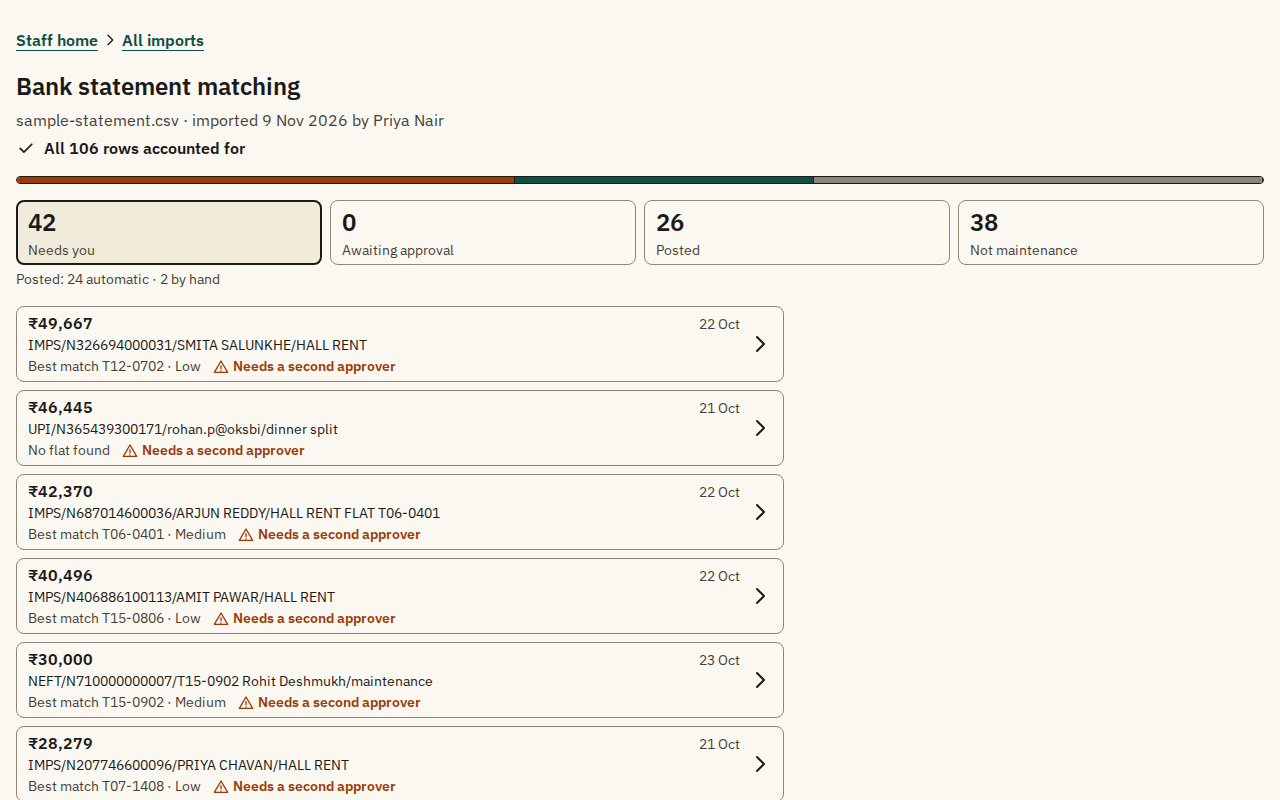
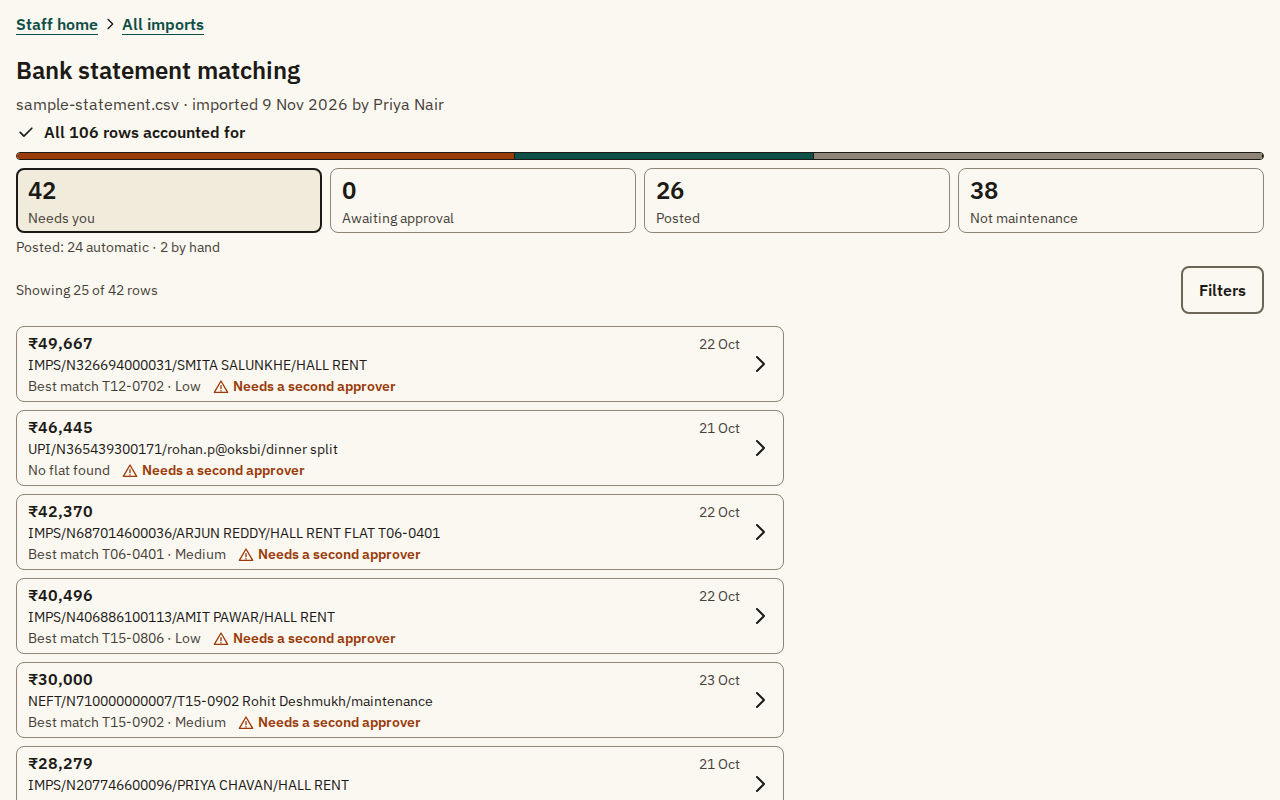
test: reconciliation filters in a browser
The Filters sheet at 360, 768 and 1280: open, choose, Apply, the
address, the rows and the counts against SQL, chips one at a time, a
reload, Escape and focus, Reset, hostile values, and the page scroll
held by the shared lock. The check helper now ignores a control that an
inner scroll area has scrolled (half) out of view, which a sheet with a
sticky footer made look 3px from its buttons. Adds the BEFORE and AFTER
screenshots of the staff home and reconciliation audits. D192.

diff --git a/tests/e2e/screens/reconciliation-filters.spec.ts b/tests/e2e/screens/reconciliation-filters.spec.ts
@@ -1,0 +1,152 @@
+import { expect, test, type Page } from "@playwright/test";
+import { checkScreen, watchPage } from "../helpers/checks";
+import { authFile } from "../helpers/people";
+import { sql, sqlRows } from "../helpers/sql";
+
+/**
+ * The Filters sheet of the reconciliation workspace (D192) in a browser, as Priya on the import the reconciliation flow left. The sheet opens, Apply and Reset change the
+ * address, Escape closes it and focus goes back to the Filters button, the chips remove one choice at a time, the filters survive a reload, the sheet holds the page
+ * scroll, hostile values give the defaults, and the rows and counts shown equal SQL written here (the amount boundary included). Also axe, targets and overflow with
+ * the sheet open and with filters on. Writes the two screenshots of docs/screenshots/reconciliation-filters-*.
+ */
+test.use({ storageState: authFile("priya") });
+
+const NOFLAT = ["NO_NARRATION", "NO_MATCH"];
+const noflatSql = NOFLAT.map((code) => `b.parsed->'decision'->'reasons' @> '[{"code": "${code}"}]'::jsonb`).join(" OR ");
+
+async function open(page: Page, query = ""): Promise<string> {
+  const list = (await (await page.request.get("/api/statements")).json()) as { imports: { importId: string }[] };
+  const importId = list.imports[0].importId;
+  await page.goto(`/staff/reconciliation/${importId}${query}`);
+  await expect(page.getByRole("tab", { selected: true })).toBeVisible();
+  return importId;
+}
+
+const filtersButton = (page: Page) => page.getByRole("button", { name: /^Filters/ });
+const width = (page: Page) => page.viewportSize()?.width ?? 0;
+
+test("open the sheet, choose, Apply: the address, the rows and the counts equal SQL; chips remove one at a time; a reload keeps them", async ({ page }) => {
+  const watch = watchPage(page);
+  const importId = await open(page);
+  const threshold = (await sql<{ v: string }>(`SELECT value::text AS v FROM society_settings WHERE key = 'approval_threshold_paise'`)).v;
+  await filtersButton(page).click();
+  const sheet = page.getByRole("dialog", { name: "Filters and sort" });
+  await expect(sheet).toBeVisible();
+  await expect(page.locator("html")).toHaveCSS("overflow", "hidden");
+  await expect(sheet.getByRole("radio")).toHaveCount(10);
+  await expect(sheet.getByRole("button", { name: "Apply" })).toBeVisible();
+  const heights = await sheet.getByRole("radio").evaluateAll((els) => els.map((el) => (el.closest("label") as HTMLElement).getBoundingClientRect().height));
+  expect(Math.min(...heights)).toBeGreaterThanOrEqual(48);
+  await expect(sheet.getByText(`₹${Number(threshold) / 100 >= 1000 ? (Number(threshold) / 100).toLocaleString("en-IN") : Number(threshold) / 100} or more (needs a second approver)`)).toBeVisible();
+  if (width(page) === 360) await page.screenshot({ path: "docs/screenshots/reconciliation-filters-sheet-360x800.png", scale: "css" });
+  await checkScreen(page, watch, "reconciliation-filters", "sheet");
+
+  await sheet.getByLabel("Oldest first").check();
+  await sheet.getByLabel(/or more \(needs a second approver\)/).check();
+  await sheet.getByLabel(/^No flat found/).check();
+  await sheet.getByRole("button", { name: "Apply" }).click();
+  await expect(page).toHaveURL(/sort=oldest&amount=high&reason=noflat/);
+  await expect(page.getByRole("dialog")).toHaveCount(0);
+  await expect(page.locator("html")).not.toHaveCSS("overflow", "hidden");
+
+  const expected = await sqlRows<{ id: string; amount: string }>(
+    `SELECT b.id::text AS id, GREATEST(b.credit_paise, b.debit_paise)::text AS amount FROM bank_rows b WHERE b.import_id = $1::uuid AND b.state = 'QUEUED' AND GREATEST(b.credit_paise, b.debit_paise) >= $2::bigint AND (${noflatSql}) ORDER BY b.txn_date ASC, b.id ASC`,
+    [importId, threshold],
+  );
+  expect(expected.length).toBeGreaterThan(0);
+  await expect(page.getByText(`Showing ${Math.min(25, expected.length)} of ${expected.length} rows (filtered)`)).toBeVisible();
+  const shownIds = await page.locator('[role="tabpanel"] li a[id^="recon-row-"]').evaluateAll((els) => els.map((el) => el.id.replace("recon-row-", "")));
+  expect(shownIds).toEqual(expected.slice(0, 25).map((r) => r.id));
+  await expect(filtersButton(page)).toHaveText("Filters (3)");
+  await expect(page.getByRole("button", { name: /^Remove filter:/ })).toHaveCount(3);
+  if (width(page) === 360) await page.screenshot({ path: "docs/screenshots/reconciliation-filters-active-360x800.png", scale: "css" });
+  await checkScreen(page, watch, "reconciliation-filters", "active");
+
+  // The filters are in the address: a reload keeps them.
+  await page.reload();
+  await expect(filtersButton(page)).toHaveText("Filters (3)");
+  await expect(page.getByText(/\(filtered\)/)).toBeVisible();
+
+  // The chips take one choice off at a time.
+  await page.getByRole("button", { name: "Remove filter: No flat found" }).click();
+  await expect(page).toHaveURL(/sort=oldest&amount=high$/);
+  await expect(filtersButton(page)).toHaveText("Filters (2)");
+  await page.getByRole("button", { name: /^Remove filter: Oldest first/ }).click();
+  await expect(page).toHaveURL(/amount=high$/);
+  await page.getByRole("button", { name: /^Remove filter: .* or more/ }).click();
+  await expect(page).not.toHaveURL(/amount=|sort=|reason=/);
+  await expect(filtersButton(page)).toHaveText("Filters");
+});
+
+test("Escape closes the sheet and focus goes back to the Filters button; Reset clears the address", async ({ page }) => {
+  await open(page, "?sort=oldest&reason=several");
+  await filtersButton(page).focus();
+  await page.keyboard.press("Enter");
+  await expect(page.getByRole("dialog", { name: "Filters and sort" })).toBeVisible();
+  await expect(page.getByRole("radio", { name: /^Oldest first/ })).toBeChecked();
+  await page.keyboard.press("Escape");
+  await expect(page.getByRole("dialog")).toHaveCount(0);
+  await expect(filtersButton(page)).toBeFocused();
+  await filtersButton(page).click();
+  await page.getByRole("button", { name: "Reset" }).click();
+  await expect(page).not.toHaveURL(/sort=|reason=/);
+  await expect(filtersButton(page)).toHaveText("Filters");
+});
+
+test("the counts beside the reasons equal SQL, and the reason group is off on a lane without reasons", async ({ page }) => {
+  const importId = await open(page);
+  const lane = await sql<{ n: number; noflat: number }>(`SELECT count(*)::int AS n, (count(*) FILTER (WHERE ${noflatSql}))::int AS noflat FROM bank_rows b WHERE b.import_id = $1::uuid AND b.state = 'QUEUED'`, [importId]);
+  await filtersButton(page).click();
+  const sheet = page.getByRole("dialog", { name: "Filters and sort" });
+  await expect(sheet.locator("label", { hasText: /^No flat found/ })).toContainText(String(lane.noflat));
+  await expect(sheet.locator("label", { hasText: /^Any reason/ })).toContainText(String(lane.n));
+  await expect(sheet.getByText("A row can have more than one reason, so the counts can add up to more than the lane total")).toBeVisible();
+  await page.keyboard.press("Escape");
+  await page.goto(`/staff/reconciliation/${importId}?lane=posted`);
+  await filtersButton(page).click();
+  await expect(page.getByRole("dialog").getByText("Applies to Needs you and Awaiting approval rows")).toBeVisible();
+  await expect(page.getByRole("dialog").getByRole("radio", { name: /^No flat found/ })).toBeDisabled();
+});
+
+test("hostile values in the address give the defaults, and a combination with no rows says so with a way back", async ({ page }) => {
+  const importId = await open(page, "?sort=%27%3BDROP&amount=zzz&reason=%3Cscript%3E");
+  await expect(page.getByText(/Showing \d+ of \d+ rows$/)).toBeVisible();
+  await expect(filtersButton(page)).toHaveText("Filters");
+  // Find a filter combination that leaves no row of a lane that has rows, by SQL over every combination; the browser then shows it.
+  const threshold = (await sql<{ v: string }>(`SELECT value::text AS v FROM society_settings WHERE key = 'approval_threshold_paise'`)).v;
+  const codes: Record<string, string[]> = { noflat: NOFLAT, several: ["CODE_AMBIGUOUS", "CODE_CONFLICT", "PAYER_SHARED", "MULTIPLE_FLATS_OWE"], differs: ["AMOUNT_PRINCIPAL_ONLY", "AMOUNT_LESS", "AMOUNT_MORE", "NO_OPEN_BILL", "HINT_CONFLICT"], low: ["NAME_INITIAL", "NAME_TRUNCATED", "LATER_PAYMENT", "NEEDS_SECOND_SIGNAL", "STATE_CHANGED"] };
+  const reasonSql = (reason: string) => codes[reason].map((c) => `b.parsed->'decision'->'reasons' @> '[{"code": "${c}"}]'::jsonb`).join(" OR ") + (reason === "low" ? ` OR b.parsed->'decision'->>'confidence' = 'LOW'` : "");
+  let empty: string | null = null;
+  for (const amount of ["high", "low"] as const) {
+    for (const reason of ["noflat", "several", "differs", "low"]) {
+      const n = await sql<{ n: number }>(`SELECT count(*)::int AS n FROM bank_rows b WHERE b.import_id = $1::uuid AND b.state = 'QUEUED' AND GREATEST(b.credit_paise, b.debit_paise) ${amount === "high" ? ">=" : "<"} $2::bigint AND (${reasonSql(reason)})`, [importId, threshold]);
+      if (n.n === 0 && empty === null) empty = `?amount=${amount}&reason=${reason}`;
+    }
+  }
+  test.info().annotations.push({ type: "empty combination", description: empty ?? "none in this data: the empty state is covered by the render test WS8" });
+  test.skip(empty === null, "no combination is empty in this data; the empty state is covered by tests/ui/reconciliation-workspace.test.ts (WS8)");
+  await page.goto(`/staff/reconciliation/${importId}${empty}`);
+  await expect(page.getByText("No rows match these filters")).toBeVisible();
+  await page.getByRole("link", { name: "Reset filters" }).click();
+  await expect(page).not.toHaveURL(/amount=|reason=/);
+  await expect(page.getByText(/Showing \d+ of \d+ rows$/)).toBeVisible();
+});
+
+test("the sheet holds the page scroll: scrolling inside does not move the page behind (the shared lock)", async ({ page }) => {
+  test.skip(width(page) !== 360, "phone only");
+  await page.setViewportSize({ width: 360, height: 500 });
+  await open(page);
+  await page.evaluate(() => window.scrollTo(0, 300));
+  await filtersButton(page).dispatchEvent("click");
+  const sheet = page.getByRole("dialog", { name: "Filters and sort" });
+  await expect(sheet).toBeVisible();
+  const before = await page.evaluate(() => document.body.style.top);
+  expect(before).toMatch(/^-\d+px$/);
+  await page.mouse.move(180, 300);
+  await page.mouse.wheel(0, 400);
+  await page.waitForTimeout(300);
+  expect(await page.evaluate(() => document.body.style.top)).toBe(before);
+  await page.keyboard.press("Escape");
+  await expect.poll(() => page.evaluate(() => document.body.style.position)).toBe("");
+  expect(await page.evaluate(() => Math.round(window.scrollY))).toBe(300);
+});

diff --git a/playwright.config.ts b/playwright.config.ts
@@ -10,6 +10,7 @@ import { DESKTOP_1280, MOBILE_360, TABLET_768 } from "./tests/e2e/helpers/profil
  *   3        the resident flows (real clicks: pay, complaints, the Home alerts; they change data);
  *   4        the reconciliation flow, which imports the sample statement through the page, matches, requests and approves (it changes Swati's bank row, Aamir's late fee);
  *   4b       the reconciliation workspace at 360, 768 and 1280 (D189 to D191; read only, on the import the flow left);
+ *   4c       the Filters sheet of the workspace at 360, 768 and 1280 (D192; changes nothing, only the address);
  *   5 and 6  the staff screens at 360 and at 1280, and the Home of a flat that owes only a late fee (they read what 3 and 4 left);
  *   6b       the SEEDED gas complaint opened and acknowledged by the duty manager at 360 (T13i; it must run before any spec that acknowledges a safety complaint);
  *   7        the staff complaints board and complaint page at 360, 768 and 1280 (T13h; they change complaints: they assign, comment, resolve and acknowledge);
@@ -28,6 +29,9 @@ const chain: { name: string; profile: { viewport: { width: number; height: numbe
   { name: "reconciliation-workspace-360", profile: MOBILE_360, match: /screens[\\/]reconciliation-workspace\.spec\.ts$/ },
   { name: "reconciliation-workspace-768", profile: TABLET_768, match: /screens[\\/]reconciliation-workspace\.spec\.ts$/ },
   { name: "reconciliation-workspace-1280", profile: DESKTOP_1280, match: /screens[\\/]reconciliation-workspace\.spec\.ts$/ },
+  { name: "reconciliation-filters-360", profile: MOBILE_360, match: /screens[\\/]reconciliation-filters\.spec\.ts$/ },
+  { name: "reconciliation-filters-768", profile: TABLET_768, match: /screens[\\/]reconciliation-filters\.spec\.ts$/ },
+  { name: "reconciliation-filters-1280", profile: DESKTOP_1280, match: /screens[\\/]reconciliation-filters\.spec\.ts$/ },
   { name: "staff-screens-360", profile: MOBILE_360, match: /screens[\\/](staff|after-reconciliation)\.spec\.ts$/ },
   { name: "staff-screens-1280", profile: DESKTOP_1280, match: /screens[\\/](staff|after-reconciliation)\.spec\.ts$/ },
   { name: "seeded-safety-360", profile: MOBILE_360, match: /screens[\\/]seeded-safety\.spec\.ts$/ },

diff --git a/tests/e2e/helpers/checks.ts b/tests/e2e/helpers/checks.ts
@@ -61,7 +61,19 @@ async function measure(page: Page) {
       }
       return false;
     };
-    const visible = (el: Element): boolean => shown(el) && !inClosedDetails(el) && (modal === undefined || modal.contains(el));
+    // An element that an inner scroll area (a sheet's body) has scrolled out of view, or half out of it, is not whole on screen: its box still overlaps the sheet's sticky footer, which is no overlap for a person.
+    const scrolledOut = (el: Element): boolean => {
+      const r = el.getBoundingClientRect();
+      for (let up = el.parentElement; up !== null && up !== document.body; up = up.parentElement) {
+        const overflowY = getComputedStyle(up).overflowY;
+        if ((overflowY === "auto" || overflowY === "scroll") && up.scrollHeight > up.clientHeight + 1) {
+          const box = up.getBoundingClientRect();
+          if (r.bottom > box.bottom + 0.5 || r.top < box.top - 0.5) return true;
+        }
+      }
+      return false;
+    };
+    const visible = (el: Element): boolean => shown(el) && !inClosedDetails(el) && !scrolledOut(el) && (modal === undefined || modal.contains(el));
     const interactive = [...document.querySelectorAll('a[href], button, input:not([type="hidden"]), select, textarea, summary, [role="tab"], [role="button"], [tabindex]:not([tabindex="-1"])')];
     const targets: Measured[] = [];
     for (const el of interactive) {
@@ -69,6 +81,7 @@ async function measure(page: Page) {
       const isCheck = el instanceof HTMLInputElement && (el.type === "checkbox" || el.type === "radio");
       const box = isCheck ? (el.closest("label") ?? el) : el;
       if (!visible(box) && !(isCheck && visible(el))) continue;
+      if (scrolledOut(box)) continue;
       if (!isCheck && (el.getBoundingClientRect().width < 2 || el.getBoundingClientRect().height < 2)) continue;
       const r = box.getBoundingClientRect();
       if (r.width < 2 || r.height < 2) continue;
